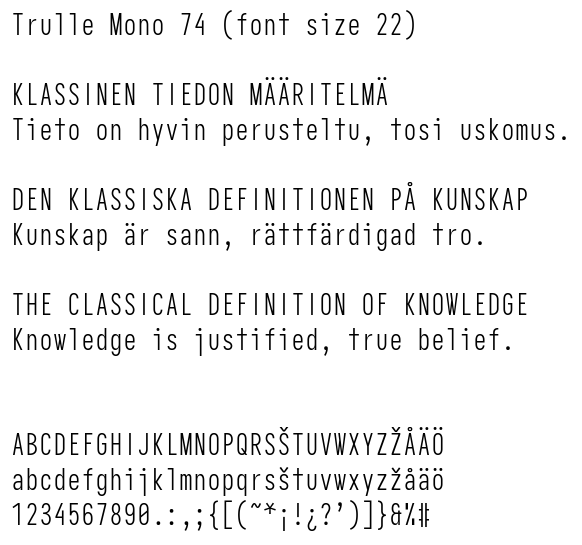
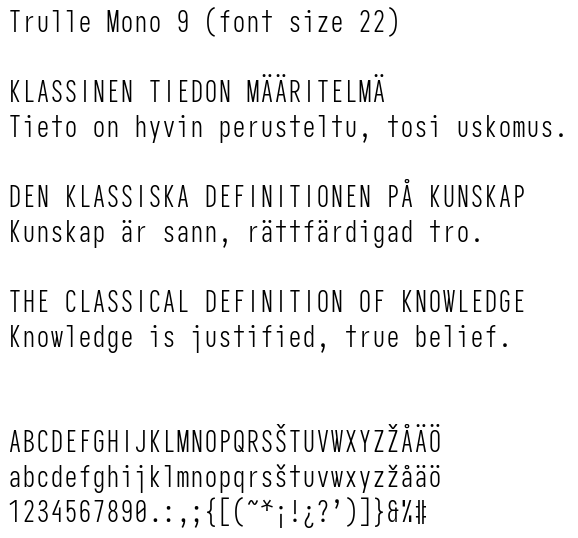
Trulle Mono fonts updated

diff --git a/README.md b/README.md
@@ -2,6 +2,12 @@
 
 The monospace font **Trulle Mono** is a heavily customised derivate of another monospace font [**Iosevka**](https://github.com/be5invis/Iosevka).
 
-While the font widths might constitute the most noticeable difference between the variants 9, 36, 74 and 76, they do possess other characteristics that can be distinguished by trying them at different fonts sizes and comparing their regular and italicised styles. Please, notice **Trulle Mono 9** in particular is supposed to be used at medium and large font sizes. Likewise, you might need to adjust the line height of your terminal manually if certain umlauts and accented characters like Å, É, À etc. don't show properly.
+While the font widths and weights might constitute the most noticeable difference between the variants **9**, **36**, **74** and **76**, you might be able to distinguish other characteristics by by trying them at different fonts sizes and comparing their regular and italicised styles. Please, notice **Trulle Mono 9** in particular is supposed to be used at medium and large font sizes. Likewise, you might need to adjust the line height of your terminal manually if certain umlauts and accented characters like Å, É, À etc. don't show properly.
 
 ![Trulle Mono 9](/Images/trulle-mono-9.png)
+
+![Trulle Mono 36](/Images/trulle-mono-36.png)
+
+![Trulle Mono 74](/Images/trulle-mono-74.png)
+
+![Trulle Mono 76](/Images/trulle-mono-76.png)
